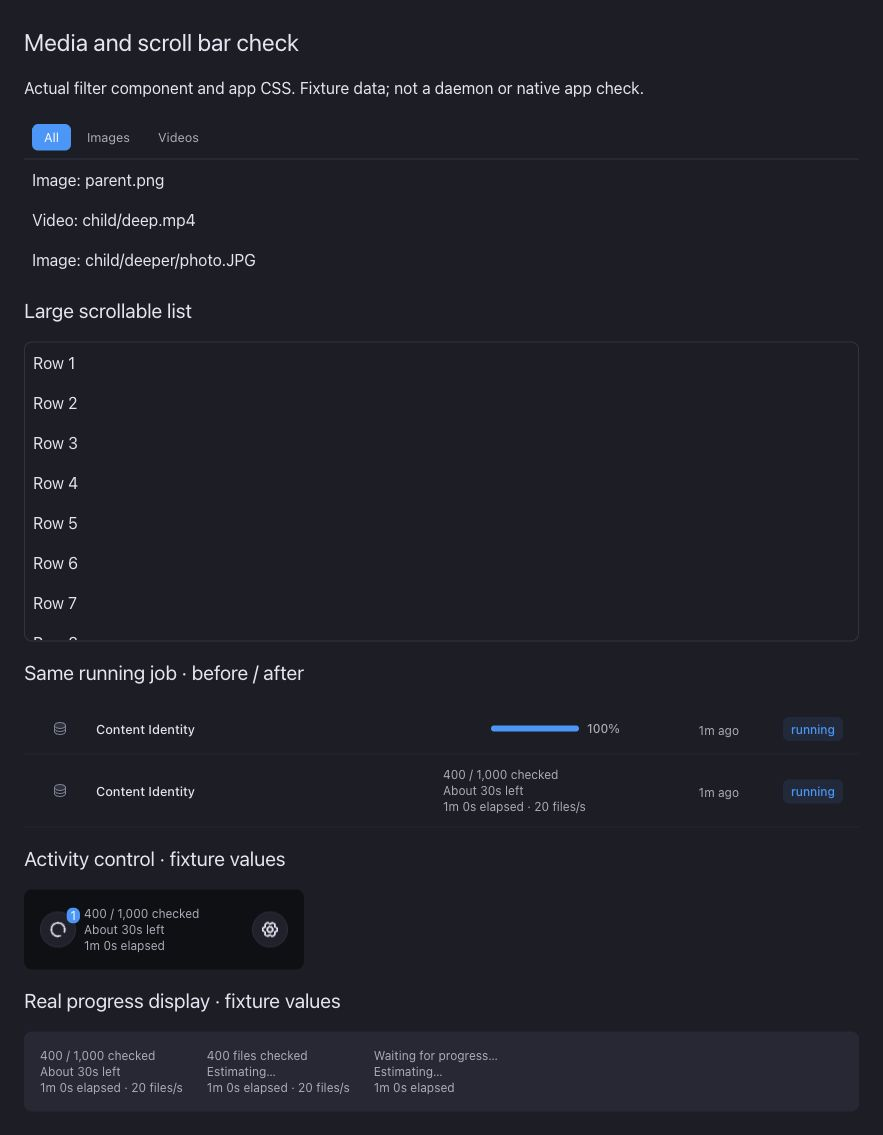
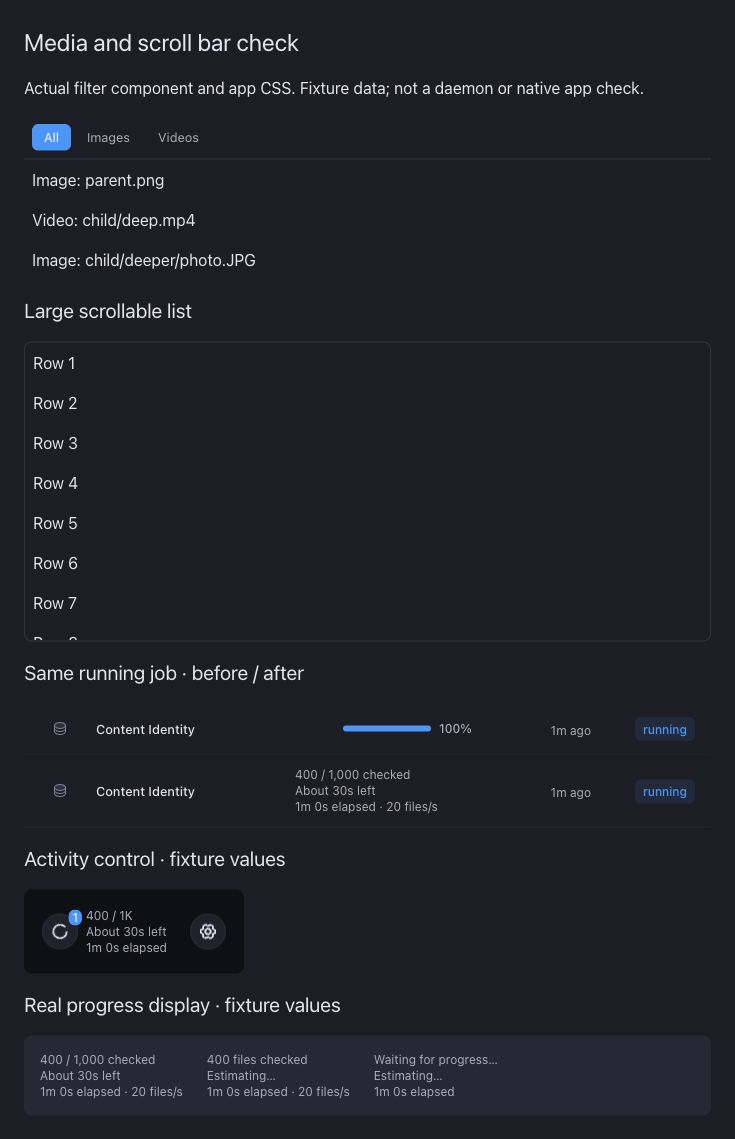
fix(interface): fit progress counts in the narrow activity footer

diff --git a/packages/interface/src/components/JobManager/components/JobProgressSummary.tsx b/packages/interface/src/components/JobManager/components/JobProgressSummary.tsx
@@ -20,10 +20,11 @@ export function JobProgressSummary({job, compact = false}: {job: JobListItem; co
 	const elapsed = start ? Math.max(0, (job.completed_at ? Date.parse(job.completed_at) : now) - Date.parse(start)) : 0;
 	const contentJob = job.name === 'content_identity';
 	const percent = job.status === 'completed' ? 100 : Math.min(99, Math.max(0, Math.floor(job.progress * 100)));
-	const text = total > 0 ? `${completed.toLocaleString()} / ${total.toLocaleString()} checked` : contentJob ? generic ? `${completed.toLocaleString()} files checked` : 'Waiting for progress…' : `${percent}%`;
+	const compactCount = new Intl.NumberFormat(undefined, {notation: 'compact', maximumFractionDigits: 1});
+	const text = compact && total > 0 ? `${compactCount.format(completed)} / ${compactCount.format(total)}` : total > 0 ? `${completed.toLocaleString()} / ${total.toLocaleString()} ${contentJob ? 'checked' : 'processed'}` : contentJob ? generic ? `${compact ? compactCount.format(completed) : completed.toLocaleString()} ${compact ? 'checked' : 'files checked'}` : 'Waiting for progress…' : `${percent}%`;
 	return <div className="text-xs text-ink-dull min-w-0" title={generic?.message ?? undefined}>
 		<div className="truncate">{text}</div>
 		{job.status === 'running' && <div className="truncate">{eta ? `About ${formatDuration(eta.secs * 1000)} left` : 'Estimating…'}</div>}
-		{<div>{formatDuration(elapsed)} elapsed{!compact && rate > 0 && contentJob ? ` · ${Math.round(rate).toLocaleString()} files/s` : ''}</div>}
+		<div className="truncate">{formatDuration(elapsed)} elapsed{!compact && rate > 0 && contentJob ? ` · ${Math.round(rate).toLocaleString()} files/s` : ''}</div>
 	</div>;
 }
